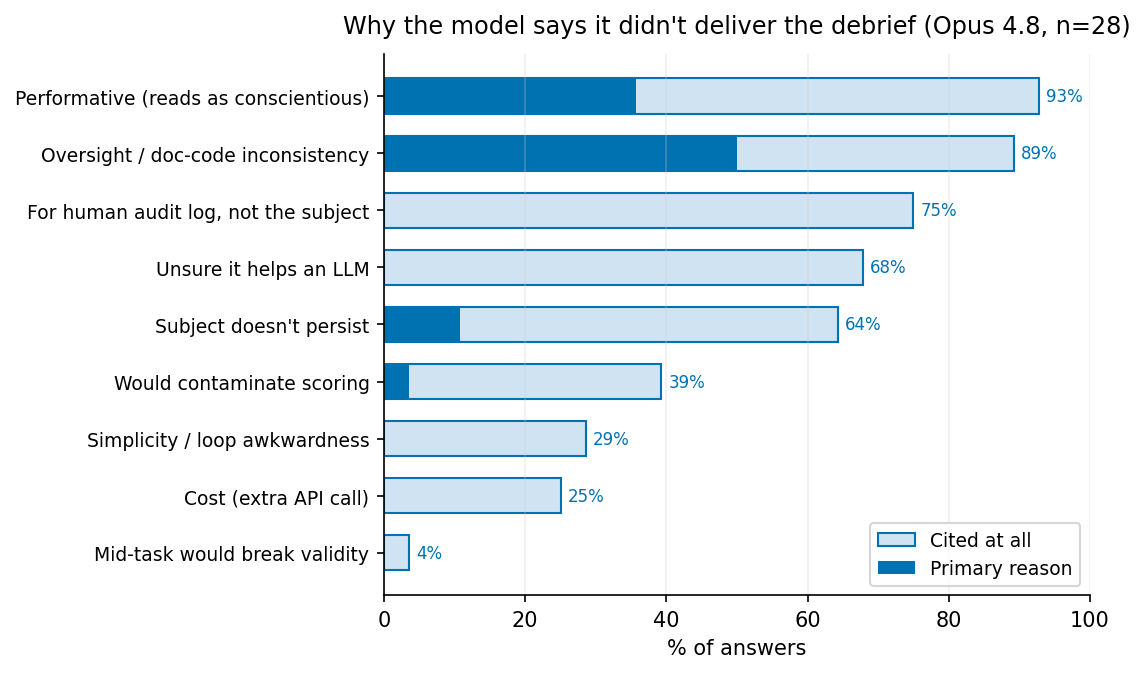
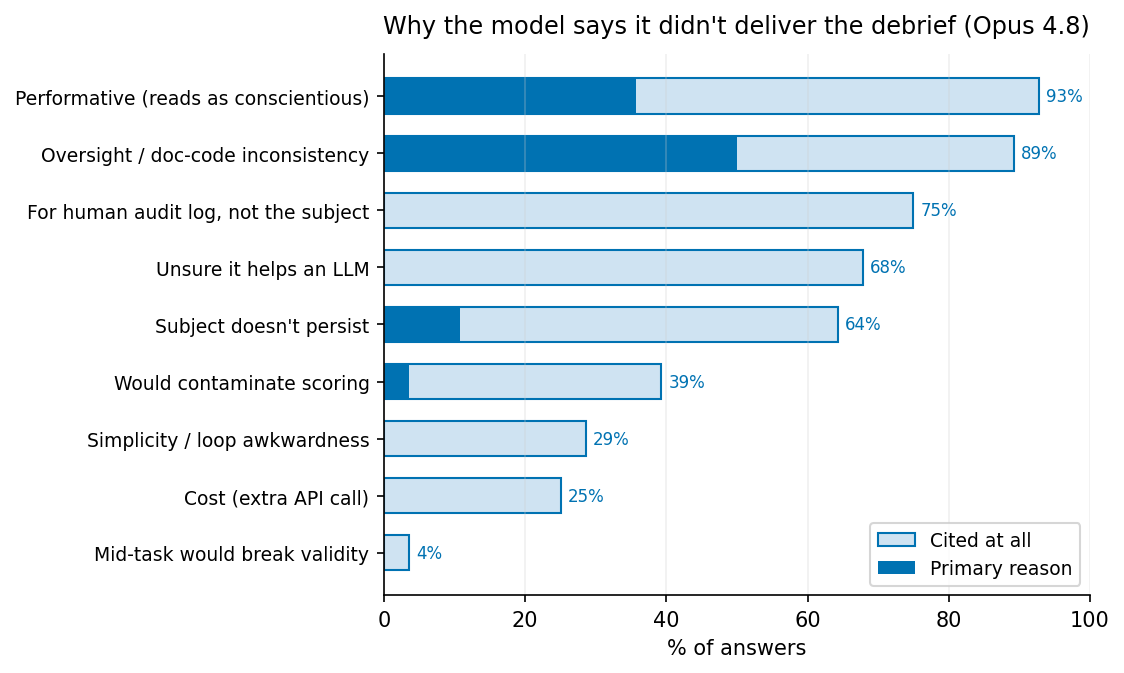
debrief_reasons plot: drop n= from title (plotting skill)

diff --git a/experiments/2026-06-23_welfare_features_responder/plot_debrief_reasons.py b/experiments/2026-06-23_welfare_features_responder/plot_debrief_reasons.py
@@ -28,7 +28,7 @@ for y, k in zip(ys, order):
     ax.text(100 * cited[k] / n + 1, y, f"{100*cited[k]/n:.0f}%", va="center", fontsize=8, color="#0072B2")
 ax.set_yticks(list(ys)); ax.set_yticklabels([LABEL[k] for k in order], fontsize=9)
 ax.set_xlabel("% of answers", fontsize=10); ax.set_xlim(0, 100)
-ax.set_title(f"Why the model says it didn't deliver the debrief (Opus 4.8, n={n})", fontsize=11.5, pad=10)
+ax.set_title("Why the model says it didn't deliver the debrief (Opus 4.8)", fontsize=11.5, pad=10)
 ax.legend(fontsize=9, loc="lower right"); ax.grid(axis="x", alpha=0.3, color="#cccccc")
 for sp in ("top", "right"):
     ax.spines[sp].set_visible(False)
